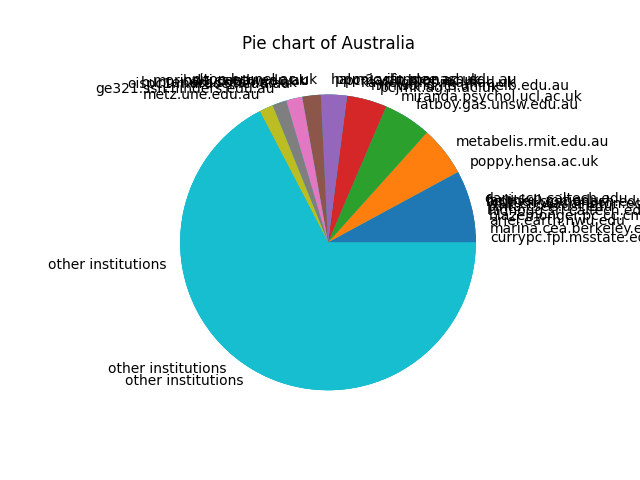
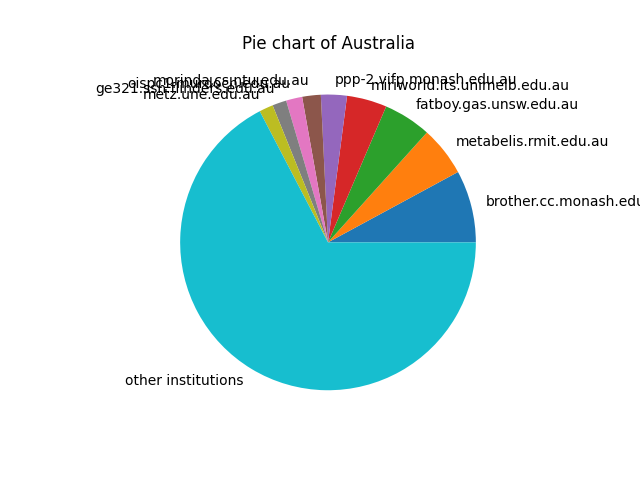
n

diff --git a/acp23ws-COM6012/Q1_B.py b/acp23ws-COM6012/Q1_B.py
@@ -74,15 +74,15 @@ ranked_host.filter(col('host').contains('.shef.ac.uk')).show(30)
 rear = ranked_host.filter(col('rank') > 9)\
                     .groupBy('country')\
                     .agg(sum(col('count')).alias('count'))\
-                    .withColumn('host', lit('other institutions')).cache()
+                    .withColumn('host', lit('other institutions'))\
+			.withColumn('rank', lit(0)).cache()
 
 # combine top 9 and "others"
 unioned = top9_host.unionByName(rear, allowMissingColumns=True).cache()
 print("unioned")
-unioned.show(30)
+unioned.show(41)
 
 for country in ['UK', 'US', 'Australia']:
-
     unioned_c = unioned.select('host', 'count').filter(col('country')==country).cache()
     unioned_c.show(20)
     pd_df = unioned_c.toPandas()
@@ -90,7 +90,7 @@ for country in ['UK', 'US', 'Australia']:
     plt.pie(pd_df['count'], labels=pd_df['host'])
     plt.title(f"Pie chart of {country}")
     plt.savefig(f"{country}.png")
-    
+    plt.close()    
 
 spark.stop()
 
